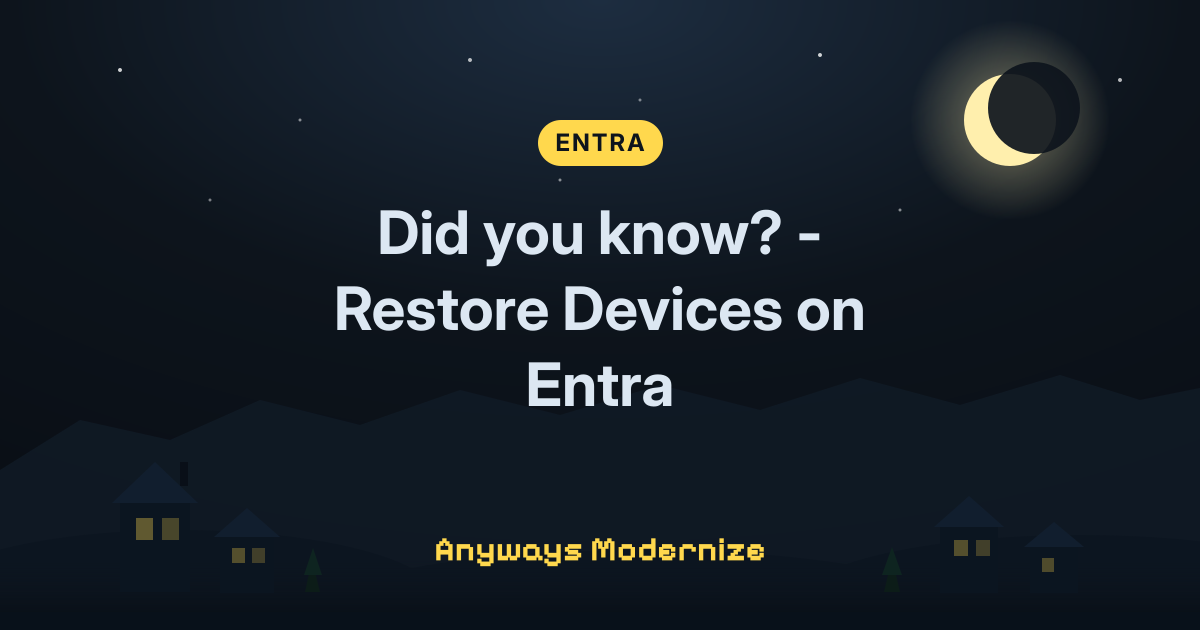
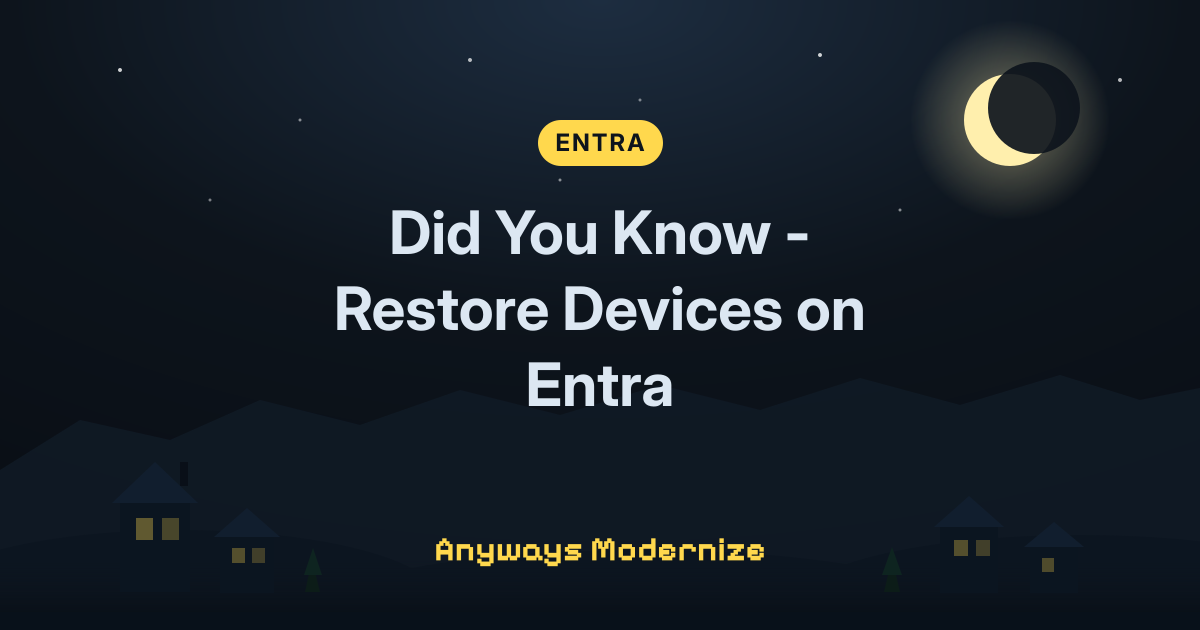
Auto-build: posts + scrolls + index + search

Changed region(s): [[0.3083, 0.3317, 0.6783, 0.4222]]

diff --git a/posts/didyouknow-2.html b/posts/didyouknow-2.html
@@ -3,13 +3,13 @@
 <head>
   <meta charset="UTF-8" />
   <meta name="viewport" content="width=device-width, initial-scale=1.0" />
-  <title>Did you know? - Restore Devices on Entra — Anyways Modernize</title>
+  <title>Did You Know - Restore Devices on Entra — Anyways Modernize</title>
   <meta name="description" content="How to recover deleted devices in Microsoft Entra ID using the new soft-delete feature."/>
 
   <!-- Open Graph (Discord, Facebook, LinkedIn, etc.) -->
   <meta property="og:type" content="article"/>
   <meta property="og:site_name" content="Anyways Modernize"/>
-  <meta property="og:title" content="Did you know? - Restore Devices on Entra"/>
+  <meta property="og:title" content="Did You Know - Restore Devices on Entra"/>
   <meta property="og:description" content="How to recover deleted devices in Microsoft Entra ID using the new soft-delete feature."/>
   <meta property="og:url" content="https://anyways-modernize.github.io/posts/didyouknow-2.html"/>
   <meta property="og:image" content="https://anyways-modernize.github.io/og/didyouknow-2.png"/>
@@ -18,7 +18,7 @@
 
   <!-- Twitter / X -->
   <meta name="twitter:card" content="summary_large_image"/>
-  <meta name="twitter:title" content="Did you know? - Restore Devices on Entra"/>
+  <meta name="twitter:title" content="Did You Know - Restore Devices on Entra"/>
   <meta name="twitter:description" content="How to recover deleted devices in Microsoft Entra ID using the new soft-delete feature."/>
   <meta name="twitter:image" content="https://anyways-modernize.github.io/og/didyouknow-2.png"/>
 
@@ -36,7 +36,7 @@
 
   <div class="container">
     <div class="tag" data-tag="ENTRA">ENTRA</div>
-    <h1>Did you know? - Restore Devices on Entra</h1>
+    <h1>Did You Know - Restore Devices on Entra</h1>
     <p class="subtitle">How to recover deleted devices in Microsoft Entra ID using the new soft-delete feature.</p>
 
     <h2 id="introduction">Introduction</h2>

diff --git a/index.html b/index.html
@@ -64,8 +64,8 @@
       <div class="posts">
     <div class="post-card">
       <div class="tag" data-tag="ENTRA">ENTRA</div>
-      <span class="post-date">June 02, 2026</span>
-      <h3>Did you know? - Restore Devices on Entra</h3>
+      <span class="post-date">June 07, 2026</span>
+      <h3>Did You Know - Restore Devices on Entra</h3>
       <p>How to recover deleted devices in Microsoft Entra ID using the new soft-delete feature.</p>
       <a class="read-more" href="/posts/didyouknow-2.html">Read the scroll →</a>
     </div>

diff --git a/scrolls.html b/scrolls.html
@@ -25,8 +25,8 @@
     <div class="posts">
   <div class="post-card">
     <div class="tag" data-tag="ENTRA">ENTRA</div>
-    <span class="post-date">June 02, 2026</span>
-    <h3>Did you know? - Restore Devices on Entra</h3>
+    <span class="post-date">June 07, 2026</span>
+    <h3>Did You Know - Restore Devices on Entra</h3>
     <p>How to recover deleted devices in Microsoft Entra ID using the new soft-delete feature.</p>
     <a class="read-more" href="/posts/didyouknow-2.html">Read the scroll →</a>
   </div>
